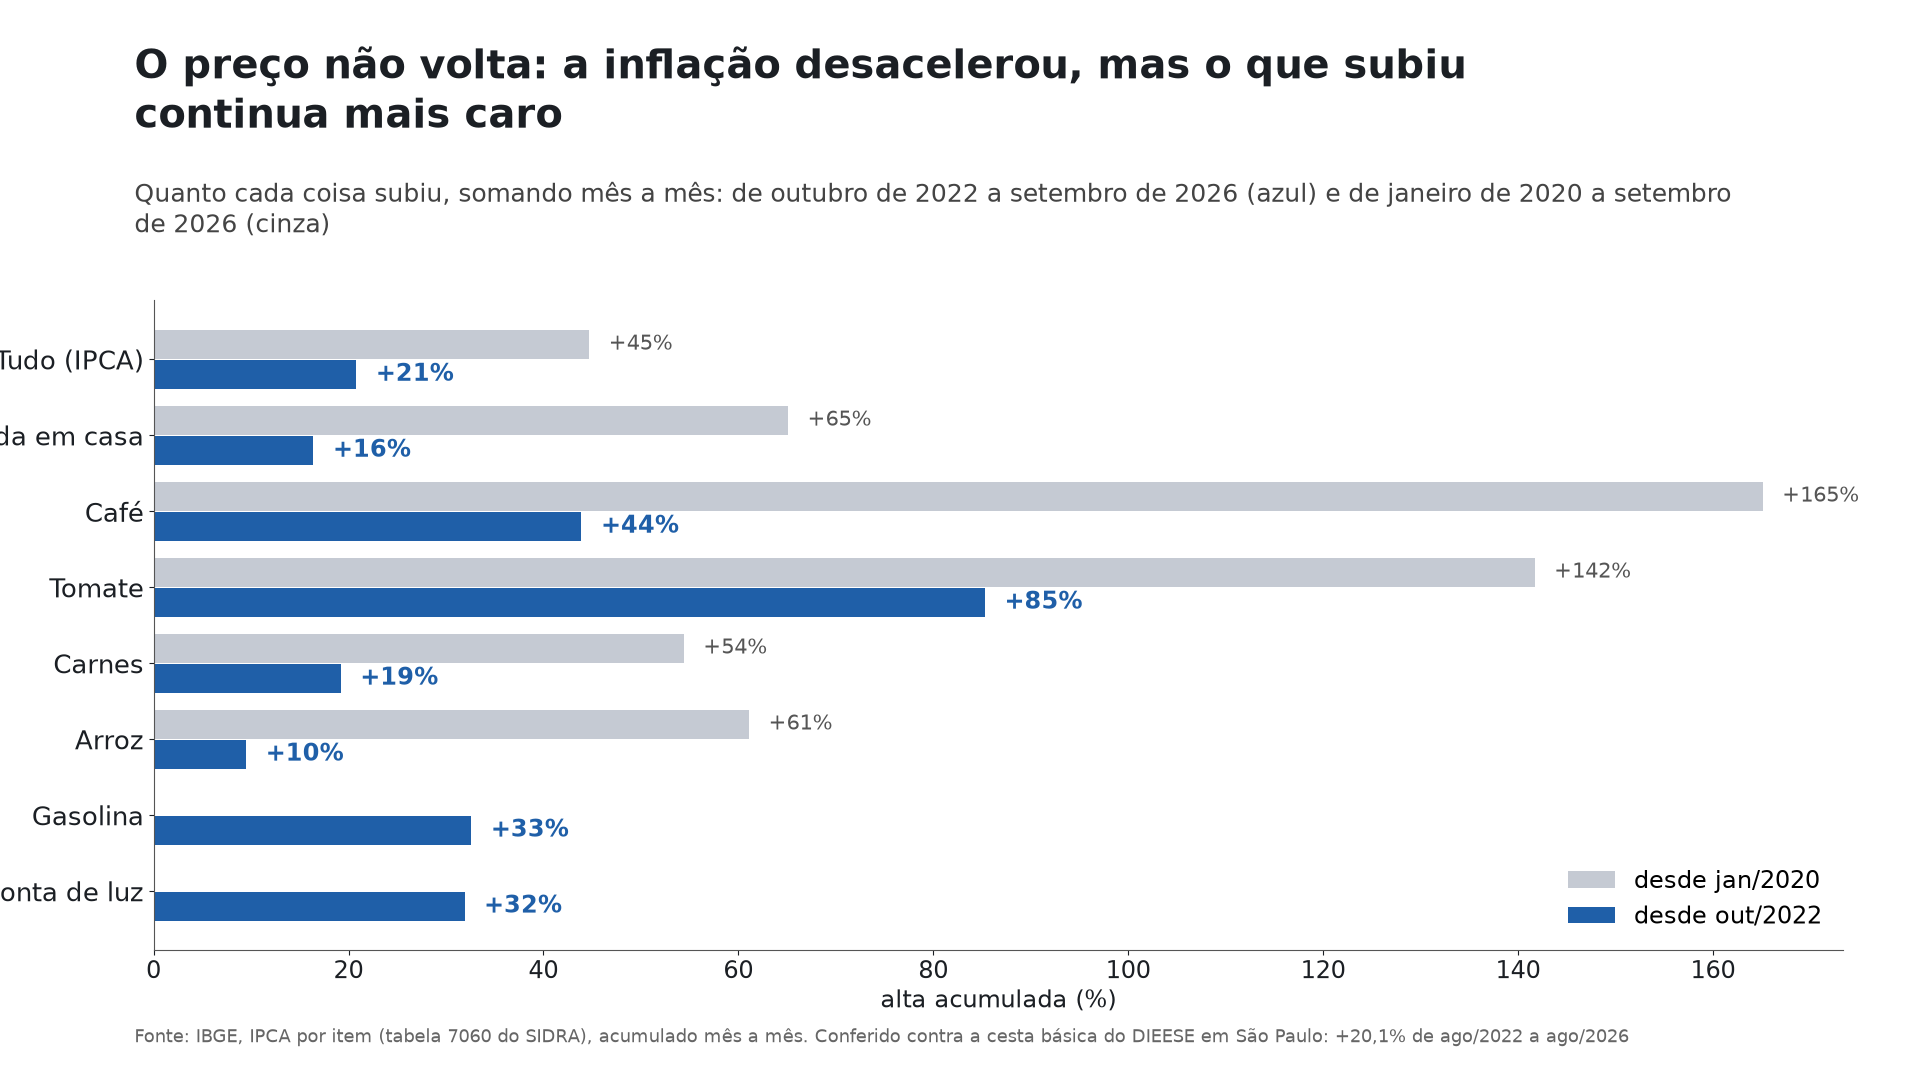
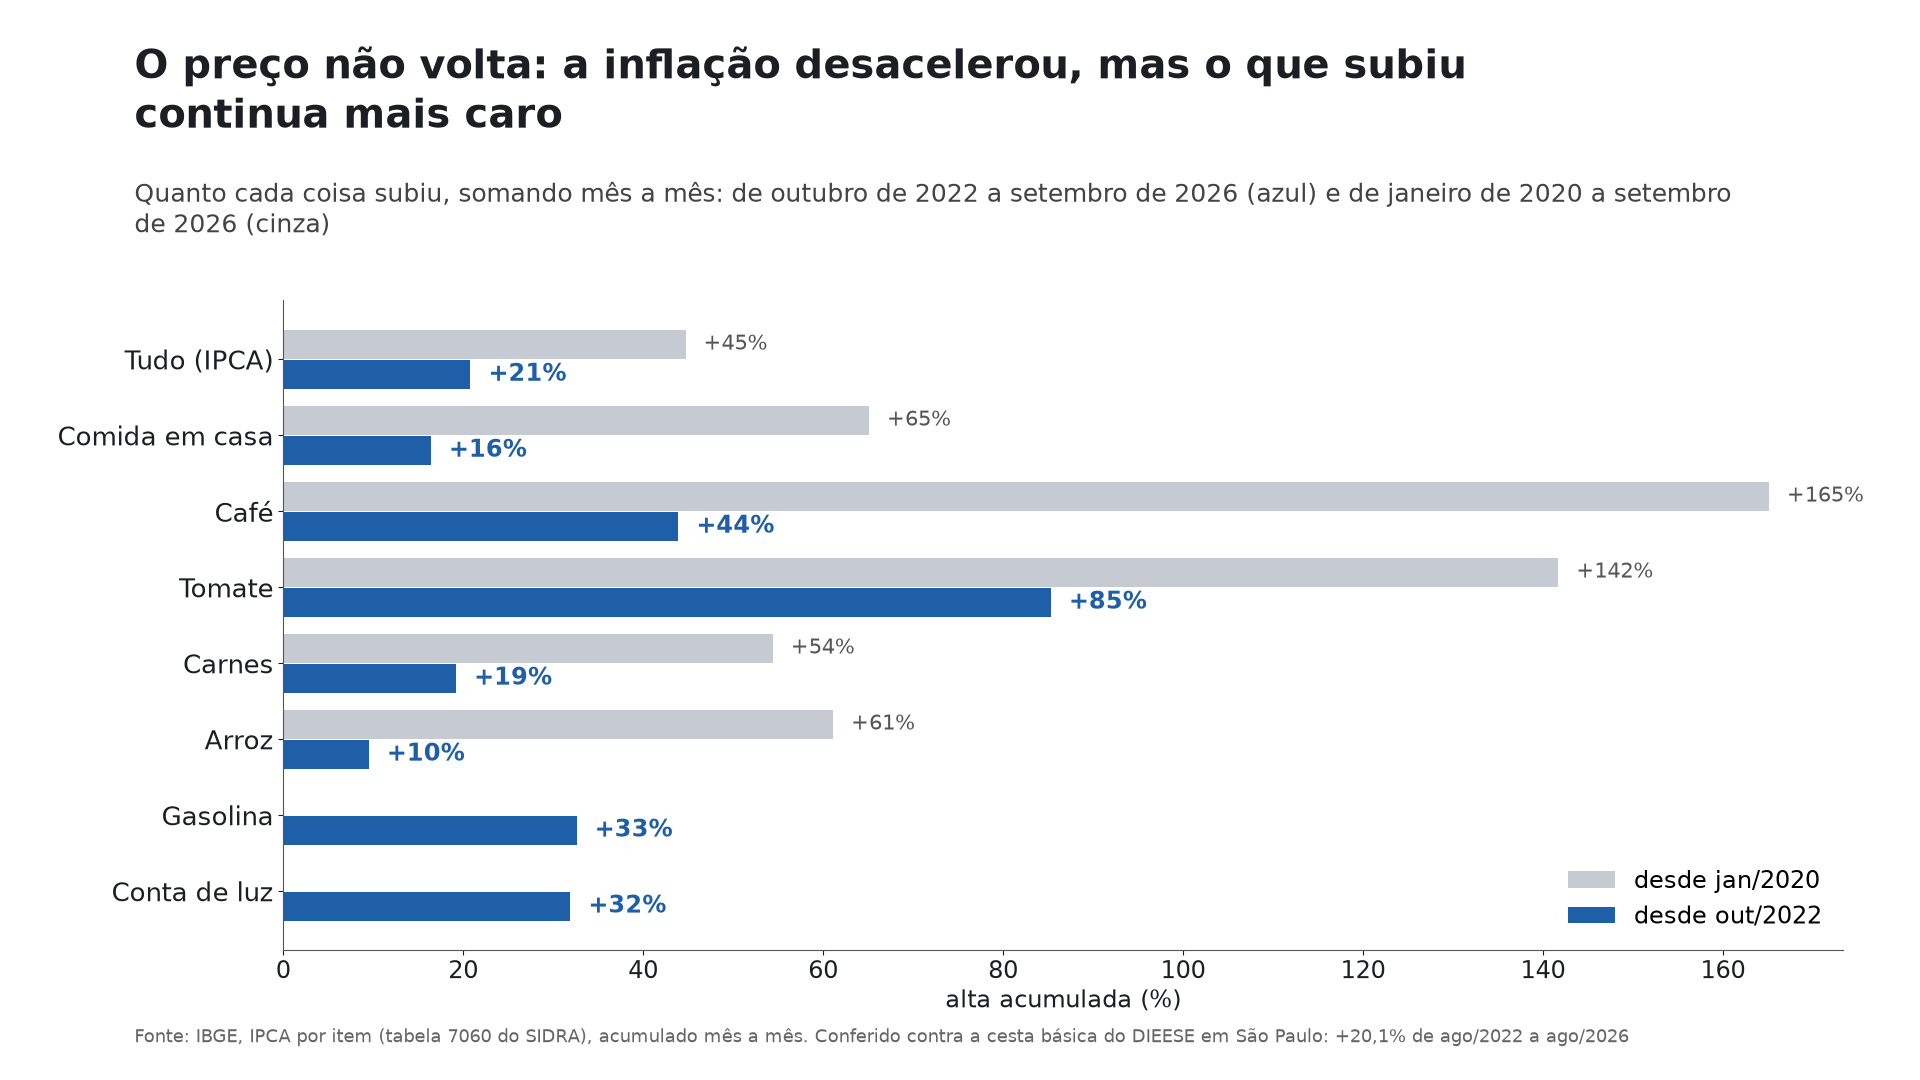
Graficos: rotulo do eixo nunca sai da figura nem encosta na fonte (02, 10, 15, 17, 19); registro do valido publicado x recalculado para o autor decidir

diff --git a/presidente/comum.py b/presidente/comum.py
@@ -67,3 +67,38 @@ def derivado_apuracao(uf: str, ano: int | None = None, turno: int = 1) -> tuple[
     if ano is None:
         return base / "uf" / f"{uf}-votos.parquet", base / "uf" / f"{uf}-secoes.parquet"
     return base / "historico" / f"{ano}-{turno}-{uf}-votos.parquet", base / "historico" / f"{ano}-{turno}-{uf}-secoes.parquet"
+
+
+def caber_na_figura(f, folga: float = 0.03) -> None:
+    """Empurra os eixos pra dentro até nenhum rótulo sair da figura pela esquerda (o rótulo do eixo y cortado).
+    Só mexe quando precisa: o intervalo horizontal ocupado pelos eixos é comprimido pra a direita, mantendo a borda direita."""
+    f.canvas.draw()
+    r = f.canvas.get_renderer()
+    larg = f.bbox.width
+    x0 = min(ax.get_tightbbox(r).x0 for ax in f.axes)
+    if x0 >= folga * larg:
+        return
+    desloca = (folga * larg - x0) / larg
+    pos = [ax.get_position() for ax in f.axes]
+    esq, dir_ = min(p.x0 for p in pos), max(p.x1 for p in pos)
+    k = (dir_ - esq - desloca) / (dir_ - esq)
+    for ax, p in zip(f.axes, pos):
+        ax.set_position([esq + desloca + (p.x0 - esq) * k, p.y0, p.width * k, p.height])
+    f.canvas.draw()
+
+
+def descolar_da_fonte(f, folga_px: float = 12) -> None:
+    """Sobe os eixos até o rótulo de baixo (eixo x) não encostar no texto da fonte no rodapé da figura."""
+    f.canvas.draw()
+    r = f.canvas.get_renderer()
+    rodape = [t for t in f.texts if t.get_position()[1] < 0.1 and t.get_text()]
+    if not rodape:
+        return
+    topo_fonte = max(t.get_window_extent(r).y1 for t in rodape)
+    y0 = min(ax.get_tightbbox(r).y0 for ax in f.axes)
+    if y0 >= topo_fonte + folga_px:
+        return
+    sobe = (topo_fonte + folga_px - y0) / f.bbox.height
+    for ax in f.axes:
+        p = ax.get_position()
+        ax.set_position([p.x0, p.y0 + sobe, p.width, p.height - sobe])

diff --git a/ferramentas/analise-8-graficos.py b/ferramentas/analise-8-graficos.py
@@ -17,7 +17,7 @@ import numpy as np  # noqa: E402
 import pandas as pd  # noqa: E402
 
 sys.path.insert(0, str(Path(__file__).resolve().parent.parent))
-from presidente.comum import CONGRESSO, DER, FIG_VIDEO, RES  # noqa: E402
+from presidente.comum import caber_na_figura, descolar_da_fonte, CONGRESSO, DER, FIG_VIDEO, RES  # noqa: E402
 
 AZUL, LARANJA, CINZA, ESCURO, CLARO = "#1f5fa8", "#d9730d", "#8a8f98", "#1b1f24", "#eef0f3"
 plt.rcParams.update({"font.family": "DejaVu Sans", "axes.spines.top": False, "axes.spines.right": False, "axes.edgecolor": "#555", "axes.labelcolor": ESCURO,
@@ -45,6 +45,8 @@ def fig(titulo: str, sub: str = "", fonte: str = ""):
 
 def salvar(f, nome: str) -> None:
     FIG_VIDEO.mkdir(parents=True, exist_ok=True)
+    caber_na_figura(f)
+    descolar_da_fonte(f)
     f.savefig(FIG_VIDEO / f"{nome}.png", dpi=100)
     plt.close(f)
     print("ok", nome, flush=True)

diff --git a/ferramentas/analise-15-graficos-novos.py b/ferramentas/analise-15-graficos-novos.py
@@ -17,7 +17,7 @@ import numpy as np  # noqa: E402
 import pandas as pd  # noqa: E402
 
 sys.path.insert(0, str(Path(__file__).resolve().parent.parent))
-from presidente.comum import FIG_VIDEO, RES  # noqa: E402
+from presidente.comum import caber_na_figura, descolar_da_fonte, FIG_VIDEO, RES  # noqa: E402
 
 AZUL, LARANJA, CINZA, ESCURO, VERMELHO = "#1f5fa8", "#d9730d", "#8a8f98", "#1b1f24", "#b3261e"
 plt.rcParams.update({"font.family": "DejaVu Sans", "axes.spines.top": False, "axes.spines.right": False, "axes.edgecolor": "#555", "axes.labelcolor": ESCURO,
@@ -43,6 +43,8 @@ def fig(titulo, sub="", fonte="", ncols=1, esquerda=0.08):
 
 def salvar(f, nome):
     FIG_VIDEO.mkdir(parents=True, exist_ok=True)
+    caber_na_figura(f)
+    descolar_da_fonte(f)
     f.savefig(FIG_VIDEO / f"{nome}.png", dpi=100)
     plt.close(f)
     print("ok", nome, flush=True)

diff --git a/docs/CORRECOES.md b/docs/CORRECOES.md
@@ -20,3 +20,23 @@ Os erros de método achados e corrigidos **durante a execução** estão em [`RE
 | véspera de 2026 (B2, H6, B4) | AtlasIntel e Futura (PDF) e Palver (página salva comprimida) saíram como "não verificável" e ficaram fora do erro por instituto | conferidas na fonte original e incluídas; a Futura com o número do PDF (44,8 e 42,6), diferente da tabela da Wikipédia | **sim**: de 7 para 10 institutos verificados; "os 7 subestimaram o candidato do PL" vira "os 10 deram a ele menos voto do que a urna; na diferença, 8 de 10 mostraram o PL pior"; H6 passa a 8 de 10 institutos com mais da metade da queda dos outros para o PL; o quanto da virada as pesquisas mostravam vai a 78%, 95% e 106% (média, média aparada e mediana); B4 passa a 6 institutos |
 | H3, economia | descrita só pelo emprego e pela inflação em 12 meses ("os indicadores melhoraram") | emenda 10: preço acumulado, cesta do DIEESE, dívida das famílias, nome sujo, recuperação judicial e sensação (seção 7A do relatório) | **sim**: a situação da H3 muda para "consistente em parte (descritivo)" |
 | episódio V23 | "reportagem da GloboNews e reação de Flávio e da CNBB" | a afirmação era falsa, e o TSE manteve fora do ar os posts que ligavam Flávio a ela (30/09) | não |
+
+## 12/out/2026 · achados na revisão da edição do vídeo
+
+| Onde | Antes | Depois | Muda algum número publicado? |
+|---|---|---|---|
+| gráficos `02`, `15`, `17` e `19` (e o `10`) | o rótulo do eixo y saía pela esquerda da figura ("…mida subiu", "…onta de luz") e, no `15`, o "1º turno" do eixo x encostava no rodapé da fonte | `presidente/comum.py` ganhou `caber_na_figura` e `descolar_da_fonte`, chamados antes de salvar todo gráfico: o eixo só se move quando o texto não cabe | não |
+
+### ⬜ Registrado para o autor decidir: voto válido publicado × voto válido recalculado (12/out)
+
+O erro da véspera de 2026 (B2, gráficos `08` e `15`, a mediana de +3,7) usa o voto válido **recalculado pelos votos totais arredondados** em 7 institutos e o **número publicado** em 3 (AtlasIntel e Futura, do PDF; Palver, o estimulado da matéria). Conferido nas fontes de `dados/CAPTURAS_INSTITUTOS.csv` em 12/out:
+
+| Instituto | Flávio, válido publicado | Flávio, recalculado | Diferença | Por quê |
+|---|---|---|---|---|
+| Datafolha (3/out) | 42 (g1: *"Lula, 45%; Flávio Bolsonaro, 42%"*) | 43,0 (40 de 93) | 1,0 | arredondamento dos totais |
+| Quaest (3/out) | 45 (g1: *"Lula, 46%; Flávio Bolsonaro, 45%"*) | 43,7 | 1,3 | a Quaest publica os válidos pelo modelo de quem vai votar |
+| PoderData (2/out) | 43 (Poder360: *"o presidente registra 45% [...] o senador tem 43%"*) | 43,6 | 0,6 | arredondamento |
+| MDA (2/out) | 42,1 (CNN) | 42,1 | 0 | |
+| Real Time, Vox Brasil, Indexa | não publicam válido na fonte | | | só a conta uniforme compara os 10 |
+
+Nada foi mudado: a conta uniforme é a única que alcança os 10, e trocar o método muda a mediana de 2026 e o erro de cada instituto. A direção não muda (o Datafolha segue mostrando o Flávio mais fraco que a urna). ⬜ Decisão do autor.
